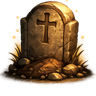
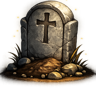
Grey headstone v2 + the Drunk's tankard

diff --git a/packages/app/src/lib/profile.ts b/packages/app/src/lib/profile.ts
@@ -21,7 +21,7 @@ export const CHARACTERS: Character[] = [
   { id: "baker", emoji: "🍞", title: "the Baker", blurb: "Everyone loves his buns. Gerald did too.", image: "/characters/baker.jpg", icon: "/characters/baker-icon.png" },
   { id: "midwife", emoji: "🕯", title: "the Midwife", blurb: "Delivered half the village. Regrets several of them.", image: "/characters/midwife.jpg", icon: "/characters/midwife-icon.png" },
   { id: "gravedigger", emoji: "🪦", title: "the Grave Digger", blurb: "Business is, regrettably, booming.", image: "/characters/gravedigger.jpg", icon: "/characters/gravedigger-icon.png" },
-  { id: "drunk", emoji: "🍺", title: "the Drunk", blurb: "Remembers the murder. Misplaced his trousers.", image: "/characters/drunk.jpg" },
+  { id: "drunk", emoji: "🍺", title: "the Drunk", blurb: "Remembers the murder. Misplaced his trousers.", image: "/characters/drunk.jpg", icon: "/characters/drunk-icon.png" },
   { id: "poacher", emoji: "🏹", title: "the Poacher", blurb: "Out in the woods that night. For reasons.", image: "/characters/poacher.jpg" },
   { id: "beekeeper", emoji: "🐝", title: "the Beekeeper", blurb: "Talks to the bees. They have concerns about you.", image: "/characters/beekeeper.jpg" },
   { id: "ratcatcher", emoji: "🐀", title: "the Rat Catcher", blurb: "Keeps the vermin under control. The rats, too.", image: "/characters/ratcatcher.jpg" },

diff --git a/design/ART-TODO.md b/design/ART-TODO.md
@@ -6,15 +6,14 @@ here to `design/`). Wiring per icon is a one-line `icon:` field in
 `packages/app/src/lib/profile.ts`.
 
 ## Wanted
-- **Gravestone icon, greyer** — the current one (design/grave-icon.png) is
-  gold-lit like the candle and loaf; a headstone should read cold stone.
-- **Beer icon** — for the Drunk (still using 🍺).
+Nothing outstanding.
 
 ## Still on emoji (icon welcome any time)
 Poacher 🏹 · Beekeeper 🐝 · Rat Catcher 🐀 · Lamplighter 🔦
 
 ## Done
-Baker (loaf) · Midwife (candle) · Grave Digger (headstone — being replaced)
+Baker (loaf) · Midwife (candle) · Grave Digger (grey headstone, v2 —
+design/grave-icon.png is the retired gold one) · Drunk (tankard)
 
 ## Notes
 - Portraits: square sources crop best (the Lamplighter is portrait-ratio
